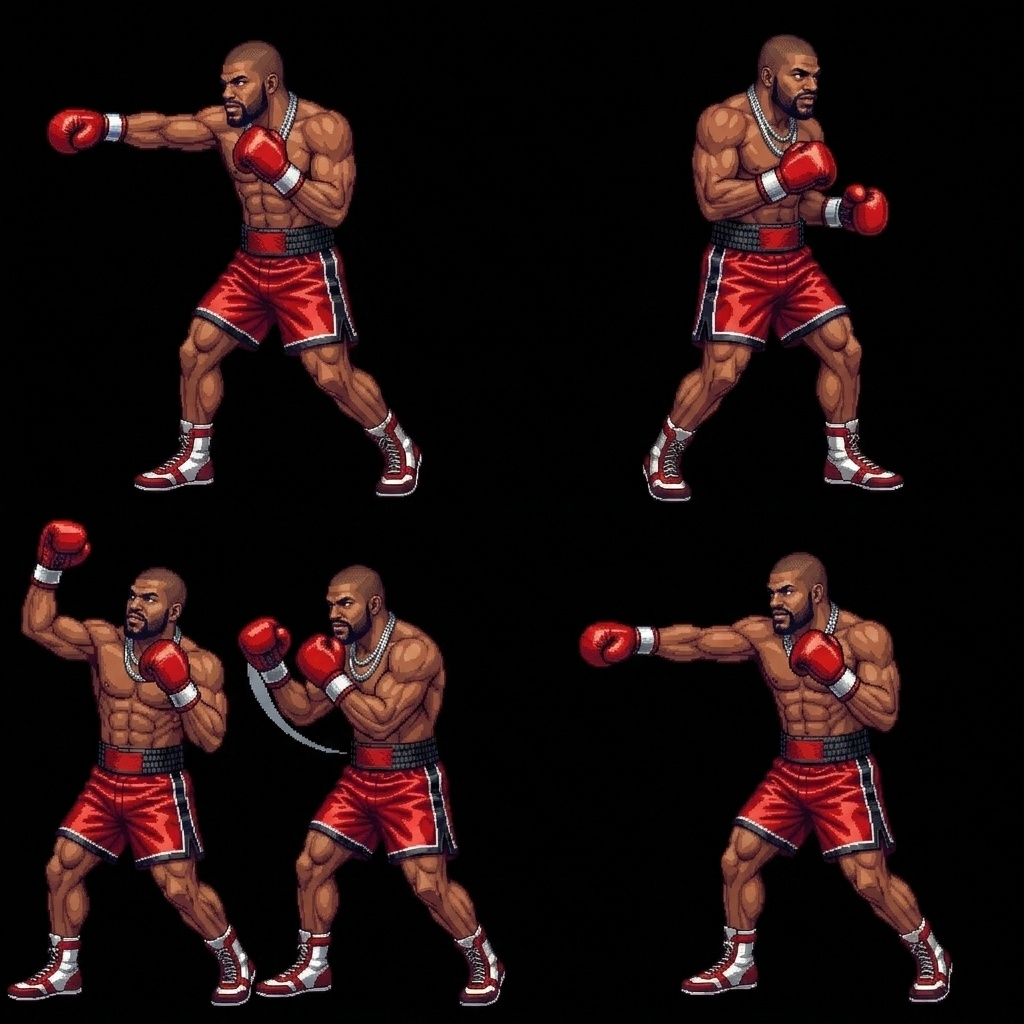
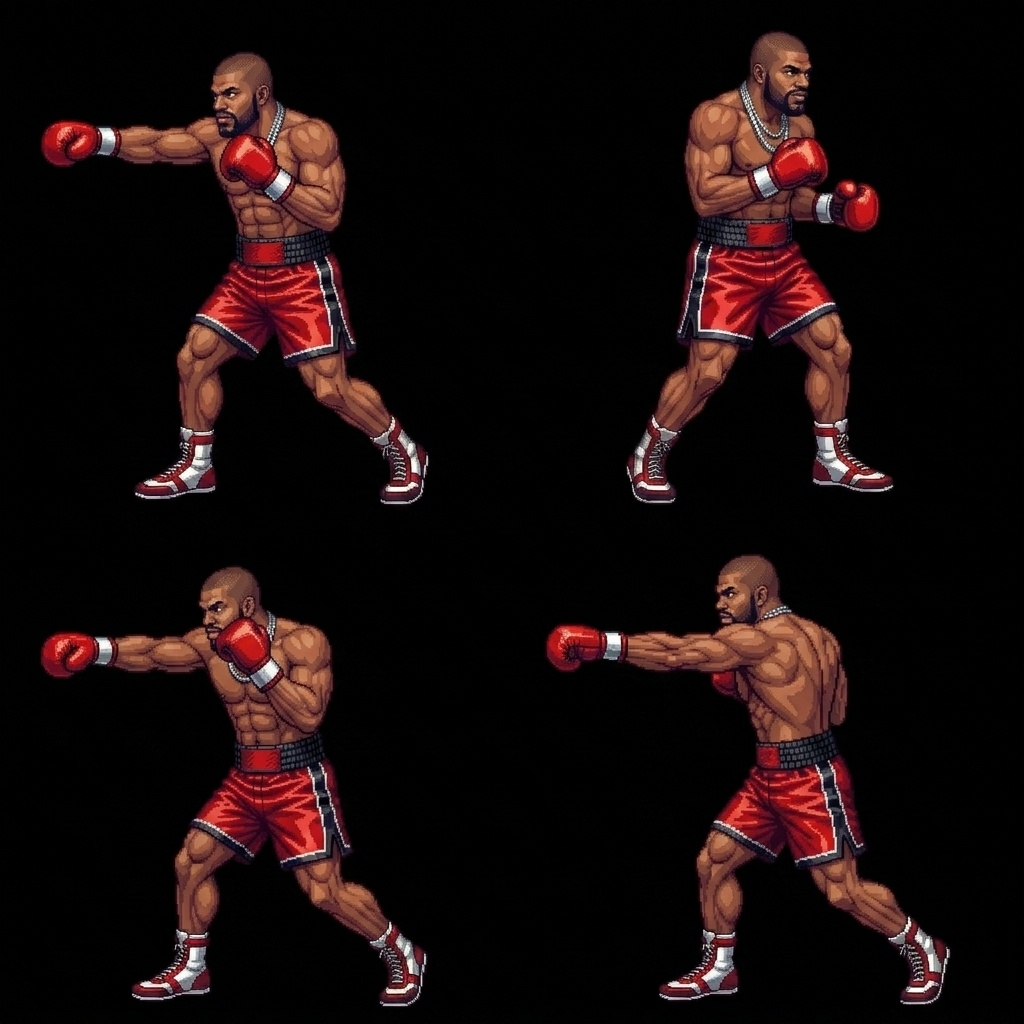
fix: replace rampage punches with a correct 4-frame grid and horizontally flip it to face left for consistency

diff --git a/flip.py b/flip.py
@@ -1,49 +1,8 @@
 import os
 from PIL import Image
 
-# Dictionary of which sprites need to be flipped horizontally to face LEFT
 FLIP_MAP = {
-    'broner_sprite.jpg': False,
-    'broner_punches.jpg': True,
-    
-    'deen_sprite.jpg': True,
-    'deen_punches.jpg': False,
-    
-    'ryan_sprite.jpg': False,
-    'ryan_punches.jpg': False,
-    
-    'n3on_sprite.jpg': True,
-    'n3on_punches.jpg': True,
-    
-    'rayj_sprite.jpg': True,
-    'rayj_punches.jpg': True,
-    
-    'blueface_sprite.jpg': True,
-    'blueface_punches.jpg': True,
-    
-    'chrisean_sprite.jpg': True,
-    'chrisean_punches.jpg': True,
-    
-    'rampage_sprite.jpg': False,
     'rampage_punches.jpg': True,
-    
-    'adin_sprite.jpg': False,
-    'adin_punches.jpg': True,
-    
-    'charleston_sprite.jpg': True,
-    'charleston_punches.jpg': True,
-    
-    'walid_sprite.jpg': True,
-    'walid_punches.jpg': True,
-    
-    'abrown_sprite.jpg': False,
-    'abrown_punches.jpg': True,
-    
-    'tank_sprite.jpg': True,
-    'tank_punches.jpg': True,
-    
-    'floyd_sprite.jpg': False,
-    'floyd_punches.jpg': True,
 }
 
 assets_dir = 'assets'
